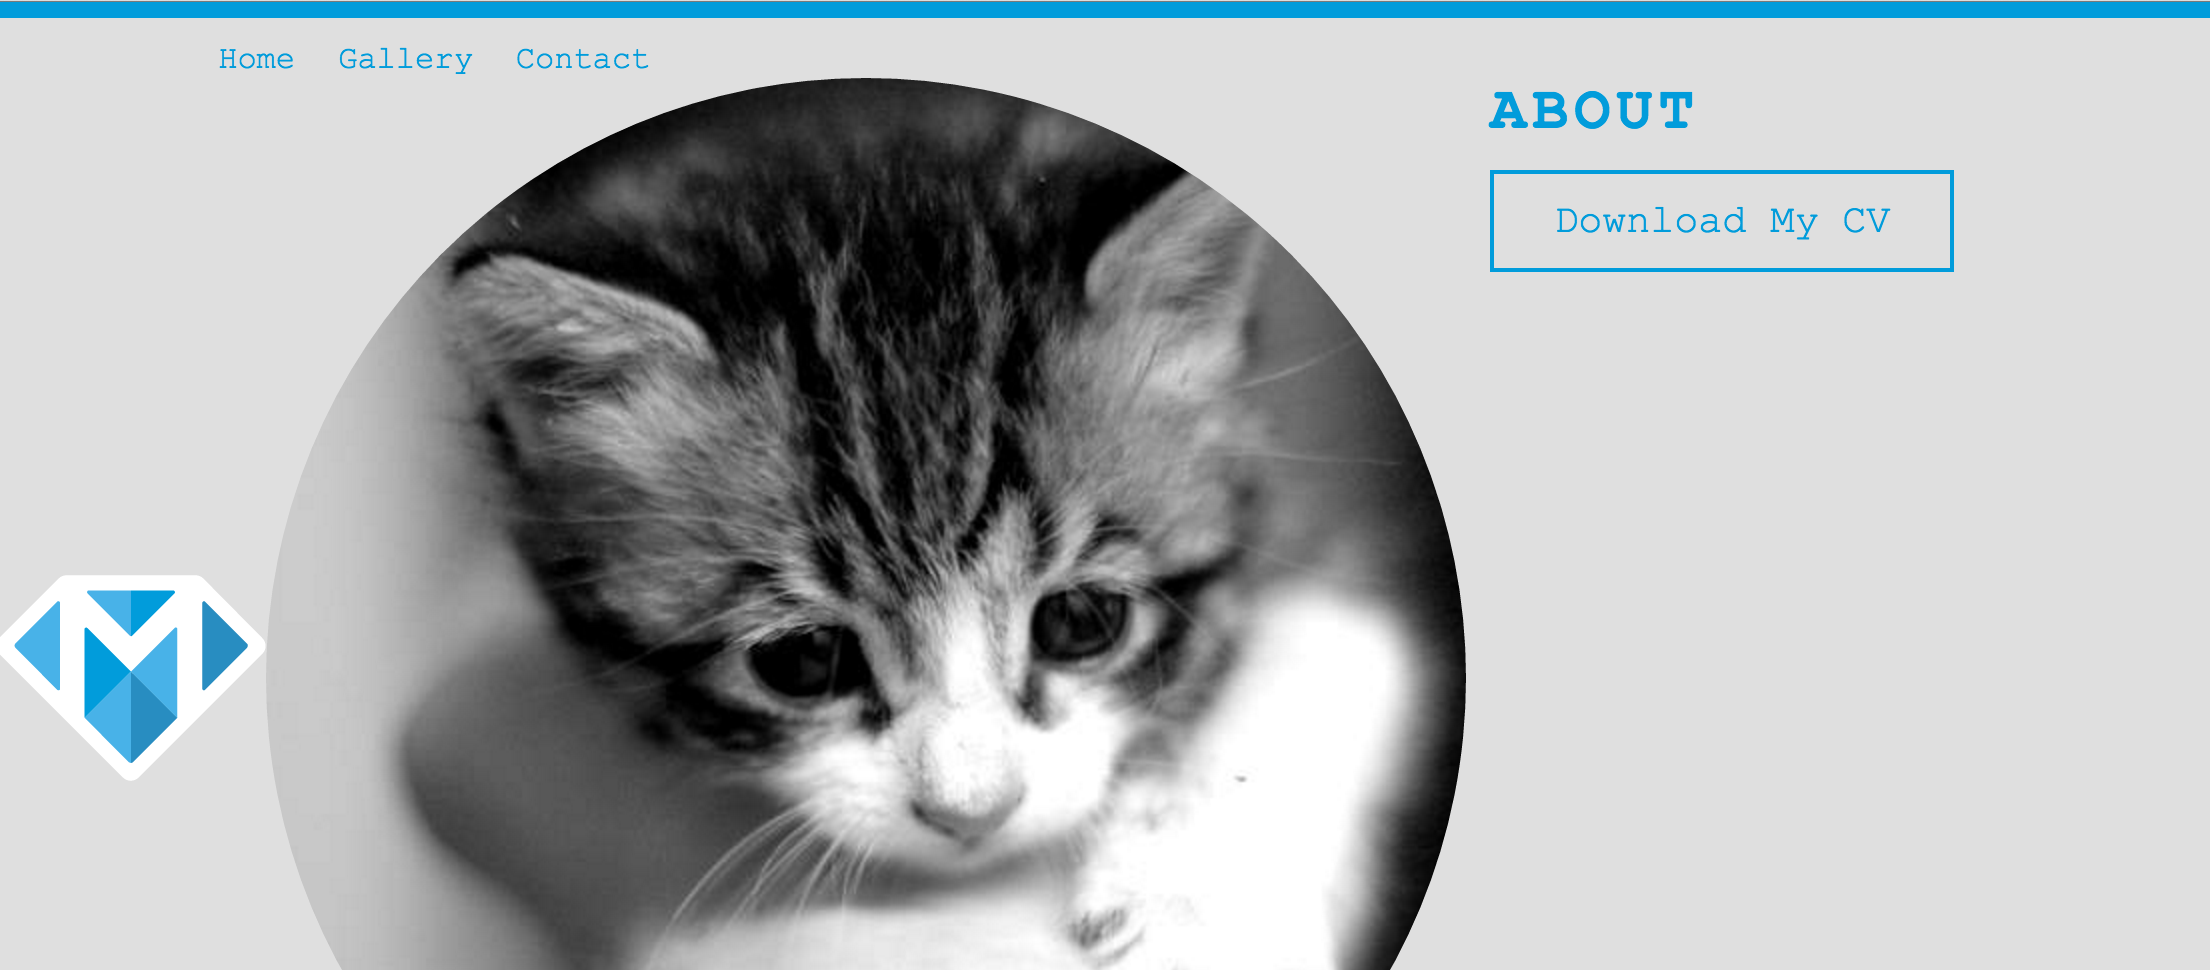
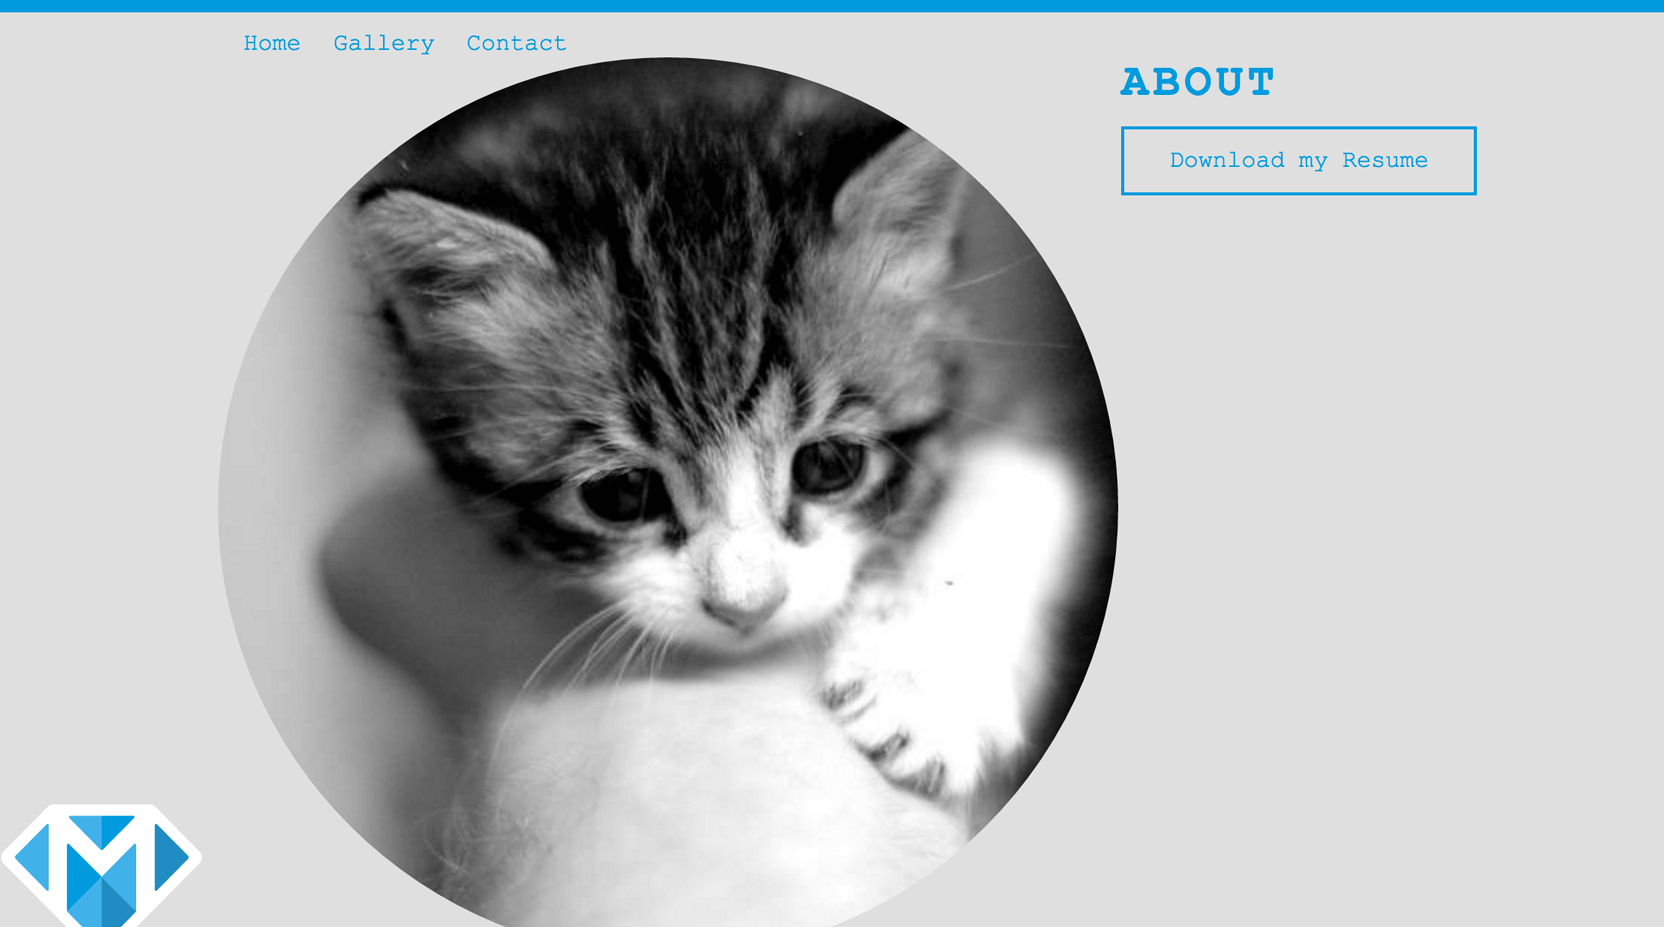
edits to p4

diff --git a/P4-using-css3/content.md b/P4-using-css3/content.md
@@ -6,12 +6,13 @@ slug: using-css3
 #A circular image
 Now let's do some additional styling to the main content. The kitten image should be round, we want the logo to be positioned above the kitten, and the two phrases should be centered on the image. Things like making circular images and even centering content on web pages used to be a dark art in front-end web development. However, thanks to the latest advances in CSS, we can now forget those terrible times and use the power of flexbox to get everything in place! 
 
-Now that we have some basic styling, let's get everything into place! We also want to make our main image circular, so let's start with that. We are going to use some new CSS3 rules for this. One trick to make the image round is to use the **property** border-radius. Applying a border-radius of 50% (or 100% - why one or the other? Read about it [here](http://jessica-eldredge.com/2014/09/07/border-radius-50-or-100-percent/).) to an element makes it a circle.
+We are going to use some new CSS3 rules to make the main image circular. One trick to make the image round is to use the `border-radius` property. Applying a border-radius of 50% (or 100% - why one or the other? Read about it [here](http://jessica-eldredge.com/2014/09/07/border-radius-50-or-100-percent/)) to an element makes it a circle.
 
 > [info]  
-> **The box model of HTML elements**
+> **The box model for HTML elements**
 >
 > In an HTML document, each element is represented as a rectangular box. Determining the size, properties — like its color, background, borders aspect — and the position of these boxes is the goal of the rendering engine (inside the browser).
+> 
 > In CSS, each of these rectangular boxes is described using the standard box model. This model describes the content of the space taken by an element. Each box has four edges: the **margin** edge, **border** edge, **padding** edge, and **content** edge.
 > 
 > ![box model](./2-box-model.png "box model")
@@ -29,7 +30,7 @@ Now that we have some basic styling, let's get everything into place! We also wa
 <!-- Comment to break actionable boxes. -->
 
 > [action]
-> Add a class to your image. Make sure that your image is a perfect square otherwise the circle won't work! Now add the border-radius rule to your image class.
+> Add a class to your image. Make sure that your image is a perfect square otherwise the circle won't work! Next add the 50% border-radius rule to your image class.
 
 <!-- Comment to break actionable boxes. -->
 
@@ -48,12 +49,12 @@ Now that we have some basic styling, let's get everything into place! We also wa
 > ```
 
 #Centering elements with flex
-Now, that we know a bit more about box models, let's try to use that knowledge to center our content. We want to use one of the newest rules in the CSS realm that has turned our world upside down when it comes to positioning things on a web page. This used to involve a lot of [hacks](http://stackoverflow.com/questions/2017809/what-is-the-best-way-to-center-a-webpages-content-using-css) and [ugliness](http://stackoverflow.com/questions/10872688/how-to-center-body-on-a-page) but now that we have [flexbox](https://philipwalton.github.io/solved-by-flexbox/demos/vertical-centering/), we have found a nice and consistent way to position things on our pages.
+Now, that we know a bit more about the box model, let's try to use that knowledge to center our content. We want to use one of the newest rules in the CSS realm, which has turned our world upside-down when it comes to positioning things on a web page. This used to involve a lot of [hacks](http://stackoverflow.com/questions/2017809/what-is-the-best-way-to-center-a-webpages-content-using-css) and [ugliness](http://stackoverflow.com/questions/10872688/how-to-center-body-on-a-page) but now that we have [flexbox](https://philipwalton.github.io/solved-by-flexbox/demos/vertical-centering/), we have a nice and consistent way to position things on our pages.
 
-The flexbox concept might be a bit of beast to wrap your head around, so let's go through it step by step. We don't want to center everything but just our main content section and our footer, so let's wrap a div around those two sections to keep the two sections together. I like to remember div as the "dividing" element. It's a great element to keep your content on the page organized.
+The flexbox concept might be a bit of beast to wrap your head around, so let's go through it step by step. We don't want to center everything - just the main content section and the footer, so let's wrap a `div` around those two sections to keep them together. `div` is the *division* element, it's used to group elements together and it's a great way to keep your content on the page organized.
 
 > [action]
-> Make a class called flex in your CSS file and then add the class to the new div tag around the section and the footer. Add the following rules to the flex class in your CSS:
+> Make a class called `flex` in your CSS file and then add the class to the new `div` tag around the `section` and the `footer`. Add the following rules to the flex class in your CSS:
 > 
 > ```
 >    display: -webkit-box;  /* OLD - iOS 6-, Safari 3.1-6, BB7 */
@@ -61,14 +62,14 @@ The flexbox concept might be a bit of beast to wrap your head around, so let's g
 >    display: -webkit-flex; /* NEW - Safari 6.1+. iOS 7.1+, BB10 */
 >    display: flex;         /* NEW, Spec - Firefox, Chrome, Opera */
 > ```
-> Why did we add four rules instead of just one? See the info box at the bottom of this step but ultimately, we still have to cater for various browser versions that implement the same style using different rules. All newer browsers use the `display:flex;` rule but older browsers still need their **vendor prefix**. A good page to check if a prefix is needed for a rule, is [http://shouldiprefix.com/](http://shouldiprefix.com/).
+> Why did we add four rules instead of just one? Ultimately, we still have to cater to the various browser versions that implement the same style using different rules. All newer browsers use the `display:flex;` rule, but older browsers still need their **vendor prefix**. A good page to check if a prefix is needed for a rule, is [http://shouldiprefix.com/](http://shouldiprefix.com/).
 
-If you now reload the browser, you should see that the content moved but didn't get centered. The content has now aligned itself horizontally. If you read about flexbox, you'll know why but let's recap. Flex has two different ways to align elements and the default setting is horizontally (or like a row). To change it's default behavior, we have to use the property **flex-direction**. 
+If you now reload the browser, you should see that the content moved but didn't get centered. The content has now aligned itself horizontally. If you read about flexbox, you'll know why, but let's recap. Flex has two different ways to align elements and the default setting is horizontally (like a row). To change its default behavior, we have to use the **flex-direction** property. 
 
 ![Content in flex row](./1-flex-row.png "Content in flex row")
 
 > [action]
-> Add another class called *column* and add the rule flex-direction to it. Add the class to the HTML. We keep them separate as we are going to use the flex class again!
+> Add another class called *column* and add the `flex-direction` rule to it. Add the additional class to the `div` you just created. We keep them separate as we are going to use the flex class again!
 
 <!-- Comment to break actionable boxes. -->
 
@@ -88,7 +89,7 @@ If you now reload the browser, you should see that the content moved but didn't 
 >    }
 > ```
 
-The content is now back into the correct order but our image is all squashed and oval-shaped! That's because it is trying to take up all the available space. We need to tell it that we just want it centered. We will use the rule **align-items:center;** for that.
+The content is now back into the correct order but your image may be squashed and oval-shaped! That's because it is trying to take up all the available space. We need to tell it that we just want it centered. We will use the **align-items:center;** rule for that.
 
 > [action] 
 > Add this rule to your flex class: 
@@ -97,25 +98,26 @@ The content is now back into the correct order but our image is all squashed and
 >    align-items: center;
 > ```
 
-Once you have saved your files, reload your browser and voil&#224;! Our content is perfectly centered! 
+Once you have saved your files, reload your browser and voil&#224;! The content is perfectly centered! 
 
 > [info]
 > **When can I use new CSS3 rules?**
 >
-> As a developer it is important that you stay up to date on new technologies and it's also fun to start playing with new technologies. However, it is also important that you are aware that not all browsers will start supporting new ideas right away or maybe in different ways. This might mean that you have to make the decision to either use a new technology at the risk of it not being supported by all browsers, which could mean that you will have some users not being able to access your site or certain features of it. This can of course be prevented by [graceful degradation](https://www.w3.org/wiki/Graceful_degradation_versus_progressive_enhancement#Graceful_degradation_and_progressive_enhancement_in_a_nutshell) but it's best if you are aware of it in the first place. A good source to test if a feature is available and can be used without any issues is the excellent site [Can I Use?](http://caniuse.com/).
-> As we have decided to use flexbox and border-radius, our page does not support users on IE8 (for the border-radius) and IE9 (for flexbox). To get support in IE10 and IE11, we need to use vendor-prefix. This means that our content will not have a circle image and won't be centered.
-> Any ideas how we could cater for those older browsers?
+> As a developer it is important that you stay up to date on new technologies and it's decidedly fun to start playing with new technologies, particularly web ones. However, it is also important that you are aware that not all browsers will start supporting new ideas right away or they may support them in different ways. This might mean that you have to make the decision to use a new technology with the risk of it not being supported by all browsers, which could mean that you will have some users not being able to access your site or certain features of it. This can of course be prevented by [graceful degradation](https://www.w3.org/wiki/Graceful_degradation_versus_progressive_enhancement#Graceful_degradation_and_progressive_enhancement_in_a_nutshell) but it's best if you are aware of potential problems. A good source to test if a feature is available, and can be used without any issues, is the excellent site [Can I Use?](http://caniuse.com/).
+> 
+> As we have decided to use flexbox and border-radius, our page does not support users on IE8 (for the border-radius) and IE9 (for flexbox). To get support in IE10 and IE11, we must use vendor-prefix rules. This means that the content will not have a circular image and won't be centered.
+> Any ideas how we can support those older browsers?
 
 <!-- Comment to break actionable boxes. -->
 
 > [solution]
-> You guessed it, graceful degradation! In this case we could make use of the older hacks on how to center our content and come up with a different way to make the image circular. Alternatively, we could load in different stylesheets based on browser features. This requires some more logic in the `<head>` tag or some JavaScript. The source code of the [HTML5 Boilerplate](https://github.com/h5bp/html5-boilerplate/blob/master/src/index.html) might give you an idea on how that is done if you are interested in finding out more. 
+> You guessed it, graceful degradation! In this case we could make use of the older hacks for centering the content and come up with a different way to make the image circular. Alternatively, we can load in different stylesheets based on browser features. This requires additional logic in the `<head>` tag or some JavaScript. The source code of the [HTML5 Boilerplate](https://github.com/h5bp/html5-boilerplate/blob/master/src/index.html) might give you an idea on how that is done if you are interested in finding out more. 
 
 #The z-index
-Now, let's move the content into the correct place vertically. We want the logo to be on top of the circular image and we want the titles across the circular image. 
+Now, let's move the content into the correct place vertically. We want the logo to be on top of the circular image and we want the titles closer to the bottom of the circular image. 
 
 > [action]
-> Add some margin to the bottom of your header tag. This will position it lower and will avoid the logo covering the navigation links when the browser window is resized. Once you're done with this let's use some **negative** margin on the top of the circular image to move it below the logo. Negative margin can be used just like regular margin. It will just move the box element in the opposite direction. Let's add a new class for that called main-img as we might need the circle class at a later point to make more elements round. 
+> Add some margin to the bottom of your header tag. This will position it lower and will avoid the logo covering the navigation links when the browser window is resized. Once you've done that, use some **negative** margin on the top of the circular image to move it below the logo. Negative margin can be used just like regular margin. But, like you may suspect, it will move the box element in the opposite direction. Let's add a new class for that called `main-img` as we might need the circle class at a later point to make more elements round. 
 
 <!-- Comment to break actionable boxes. -->
 
@@ -132,6 +134,7 @@ Now, let's move the content into the correct place vertically. We want the logo 
 >      margin-top: -60px;
 >    }
 > ```
+> 
 > And your HTML should have a new class on the image:
 > 
 > ```
@@ -141,10 +144,10 @@ Now, let's move the content into the correct place vertically. We want the logo 
 > 
 > ![Logo below image](./2-logo-below.png "Logo below image")
 
-Oops! Our logo is hidden behind the circular image. This has to do with how our HTML elements are rendered onto the page and the box models we introduced earlier. Because we have the logo first in the HTML followed by the main image, the main image will be rendered last or "on top" of what has come before. But there is a nifty CSS property that overrides the order of things. The z-index property allows you to change the order of elements on the page (but should be used sparingly). The higher the index, the more "on top" the image. 
+Oops! The logo is hidden behind the circular image. This has to do with how our HTML elements are rendered onto the page and the box models we introduced earlier. Because we have the logo first in the HTML followed by the main image, the main image will be rendered last or "on top" of what has come before. But there is a nifty CSS property that overrides the order of things. The z-index property allows you to change the order of elements on the page (but should be used sparingly). The higher the index, the more "on top" the image. 
 
 > [action]
-> Add a class to the logo and add the rule **z-index: 2;** to it. Our logo is a bit big, so we will resize it too by using the width property. Don't set width and height to fixed pixel values as that will most likely distort the image (unless it's a square and you are reusing the proportions).
+> Add a class to the logo and add the rule **z-index: 2;** to it. Our logo is a bit big, so we will resize it by using the width property. In general, you shouldn't set width and height to fixed pixel values as that will most likely distort images (unless it's a square and you are reusing the proportions).
 
 <!-- Comment to break actionable boxes. -->
 
@@ -163,4 +166,4 @@ Oops! Our logo is hidden behind the circular image. This has to do with how our 
 >    }
 > ```
 
-Now the logo is where it is supposed to be and a more agreeable size. Let's move the titles into the right place too, right on top of the circular image. However we want the footer to stay where it is for now. The easiest way for this is make the footer sticky first. This is another useful web skill!
+Now the logo is where it is supposed to be and a more agreeable size. Let's move the titles into the right place too, right on top of the circular image. However we want the footer to stay where it is for now. The easiest way to do this is make the footer sticky first. This is another useful web skill!
